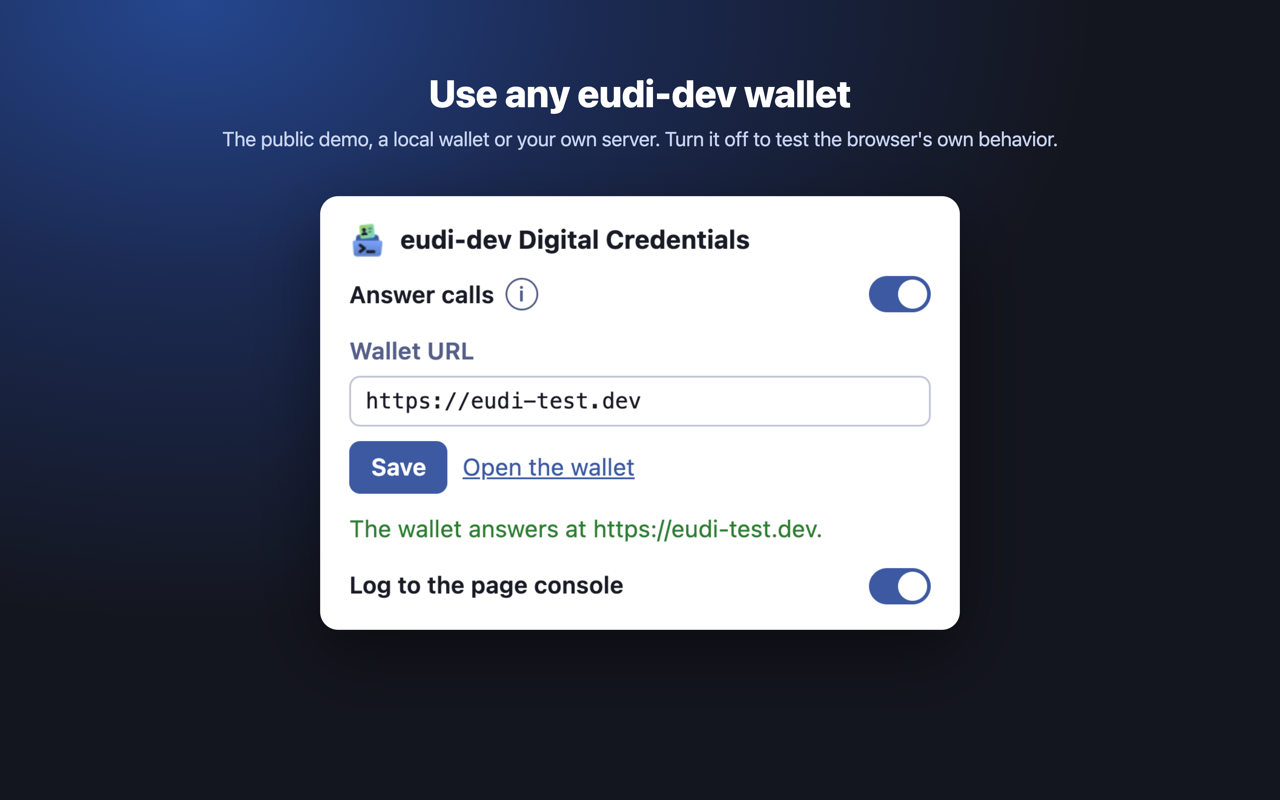
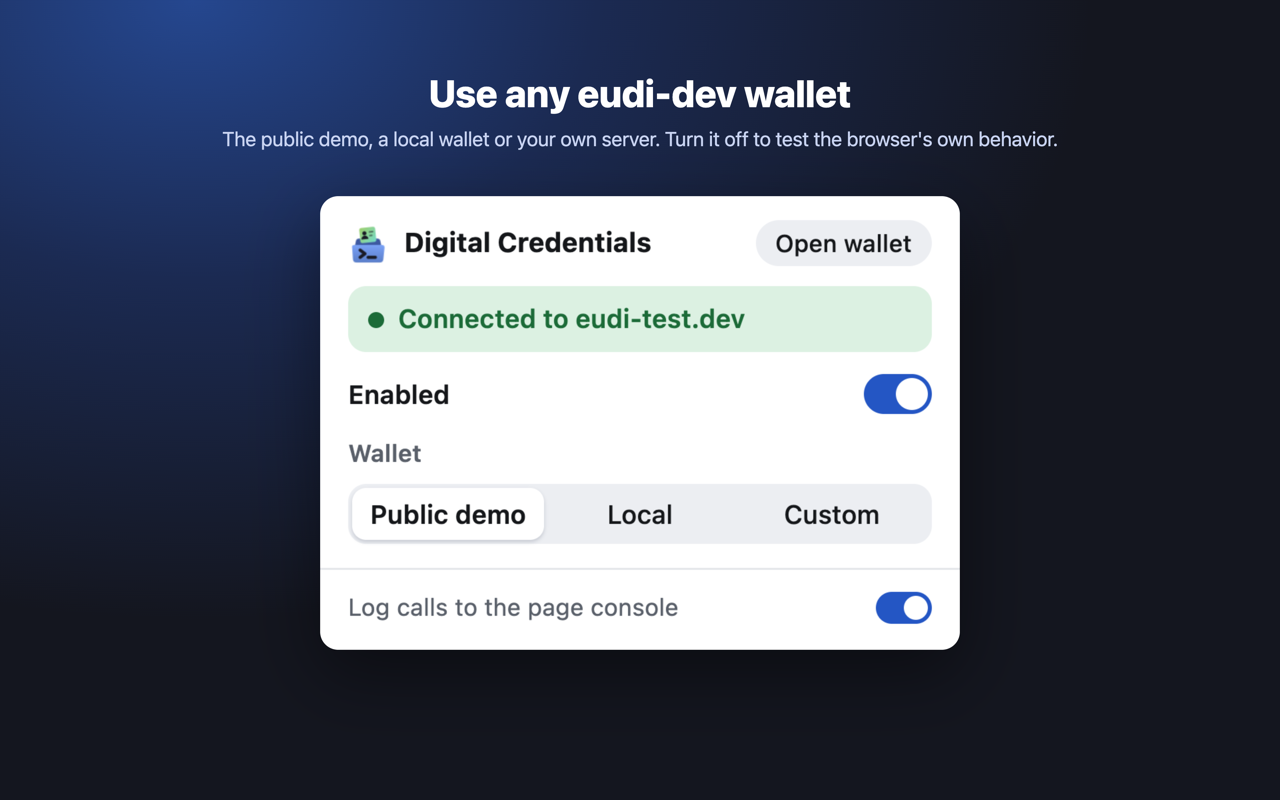
feat: redesign the browser extension popup

Changed region(s): [[0.25, 0.2812, 0.75, 0.6875], [0.25, 0.6875, 0.75, 0.8125]]

diff --git a/internal/dcextension/extension/popup.html b/internal/dcextension/extension/popup.html
@@ -4,52 +4,73 @@
   <meta charset="utf-8">
   <title>eudi-dev Digital Credentials</title>
   <style>
-    :root { color-scheme: light dark; --bg: #ffffff; --text: #1a1b26; --dim: #565f89; --border: #c0c4d6; --accent: #3d59a1; --ok: #2e7d32; --bad: #c62828; }
-    @media (prefers-color-scheme: dark) { :root { --bg: #1a1b26; --text: #c0caf5; --dim: #9aa5ce; --border: #414868; --accent: #7aa2f7; --ok: #9ece6a; --bad: #f7768e; } }
-    body { margin: 0; padding: 14px 16px; width: 320px; font: 13px/1.45 system-ui, sans-serif; background: var(--bg); color: var(--text); }
-    h1 { font-size: 14px; margin: 0 0 10px; display: flex; gap: 8px; align-items: center; }
-    h1 img { width: 20px; height: 20px; }
-    label { display: block; font-weight: 600; color: var(--dim); margin-bottom: 4px; }
-    input { box-sizing: border-box; width: 100%; padding: 6px 8px; font: 12px ui-monospace, monospace; color: var(--text); background: transparent; border: 1px solid var(--border); border-radius: 6px; }
-    .row { display: flex; gap: 8px; margin-top: 8px; align-items: center; }
-    button { font: inherit; font-weight: 600; padding: 5px 12px; border: 0; border-radius: 6px; background: var(--accent); color: #fff; cursor: pointer; }
-    a { color: var(--accent); }
-    #status { margin-top: 10px; color: var(--dim); }
-    #status.ok { color: var(--ok); }
-    #status.bad { color: var(--bad); }
-    p { margin: 10px 0 0; color: var(--dim); }
-    .switch-row { display: flex; align-items: center; gap: 6px; margin: 0 0 12px; }
-    .switch-row + label { margin-top: 0; }
-    #status + .switch-row { margin: 12px 0 0; }
-    .switch-row label { margin: 0; font-weight: 600; color: var(--text); }
-    .switch { appearance: none; position: relative; flex: none; width: 34px; height: 20px; margin: 0 0 0 auto; padding: 0; border: 0; border-radius: 10px; background: var(--border); cursor: pointer; transition: background .15s; }
+    :root { color-scheme: light dark; --bg: #ffffff; --btn: #eceef2; --text: #15171a; --dim: #5a606a; --border: #d5d8de; --subtle: #e4e6ea; --accent: #2456c4; --on-accent: #ffffff; --ok: #1c6b38; --ok-bg: #dcf1e2; --bad: #b3261e; --bad-bg: #fbe3e0; }
+    @media (prefers-color-scheme: dark) { :root { --bg: #21242a; --btn: #2c3038; --text: #eceef1; --dim: #a9afb9; --border: #383d45; --subtle: #2a2e35; --accent: #9dbcff; --on-accent: #15171a; --ok: #9fdcae; --ok-bg: #1d3a27; --bad: #ff9b8f; --bad-bg: #472320; } }
+    * { box-sizing: border-box; }
+    body { margin: 0; width: 320px; font: 13px/1.45 system-ui, sans-serif; background: var(--bg); color: var(--text); }
+    button, a.button { font: inherit; border: 0; cursor: pointer; }
+    :focus-visible { outline: 2px solid var(--accent); outline-offset: 2px; }
+    header { display: flex; align-items: center; gap: 8px; padding: 12px 14px 10px; }
+    header img { width: 20px; height: 20px; }
+    h1 { flex: 1; min-width: 0; margin: 0; font-size: 13.5px; }
+    #open { flex: none; padding: 3px 10px; border-radius: 999px; background: var(--btn); color: var(--text); font-size: 12px; font-weight: 500; text-decoration: none; }
+    #status { display: flex; align-items: center; gap: 7px; margin: 0 14px; padding: 7px 10px; border-radius: 9px; background: var(--btn); color: var(--dim); font-weight: 600; overflow-wrap: anywhere; }
+    #status::before { content: ""; flex: none; width: 8px; height: 8px; border-radius: 50%; background: currentColor; }
+    #status.ok { background: var(--ok-bg); color: var(--ok); }
+    #status.bad { background: var(--bad-bg); color: var(--bad); }
+    .switch-row { display: flex; align-items: center; justify-content: space-between; gap: 10px; padding: 11px 14px 0; font-weight: 600; }
+    .switch { appearance: none; position: relative; flex: none; width: 34px; height: 20px; margin: 0; border-radius: 10px; background: var(--border); cursor: pointer; transition: background .15s; }
     .switch::after { content: ""; position: absolute; top: 2px; left: 2px; width: 16px; height: 16px; border-radius: 50%; background: #fff; transition: transform .15s; }
     .switch:checked { background: var(--accent); }
     .switch:checked::after { transform: translateX(14px); }
-    .switch:focus-visible, .info:focus-visible { outline: 2px solid var(--accent); outline-offset: 2px; }
-    .info { position: relative; flex: none; width: 16px; height: 16px; border: 1px solid var(--dim); border-radius: 50%; color: var(--dim); font: 600 11px/16px system-ui, sans-serif; text-align: center; cursor: help; }
-    .info:hover, .info:focus { border-color: var(--accent); color: var(--accent); }
-    .info:hover::after, .info:focus::after { content: attr(data-tip); position: absolute; z-index: 1; top: 22px; left: -80px; width: 210px; padding: 6px 8px; border-radius: 6px; background: var(--text); color: var(--bg); font-weight: 400; font-size: 12px; line-height: 1.35; text-align: left; }
+    #reload-notice { display: flex; align-items: center; justify-content: space-between; gap: 8px; margin: 11px 14px 0; padding: 7px 10px; border: 1px solid var(--border); border-radius: 9px; }
+    #reload { flex: none; padding: 3px 10px; border-radius: 999px; background: var(--accent); color: var(--on-accent); font-size: 12px; font-weight: 600; }
+    [hidden] { display: none !important; }
+    #wallet { display: grid; gap: 6px; padding: 11px 14px 0; }
+    .label { color: var(--dim); font-size: 12px; font-weight: 600; }
+    .choice { display: grid; grid-template-columns: repeat(3, 1fr); padding: 2px; border-radius: 9px; background: var(--btn); }
+    .choice button { padding: 4px 0; border-radius: 7px; background: none; color: var(--text); font-weight: 500; }
+    .choice button[aria-pressed="true"] { background: var(--bg); font-weight: 600; box-shadow: 0 1px 2px rgba(20, 30, 60, .18); }
+    #wallet-url { width: 100%; padding: 6px 8px; font: 12px ui-monospace, monospace; color: var(--text); background: transparent; border: 1px solid var(--border); border-radius: 7px; }
+    #wallet-url.bad { border-color: var(--bad); }
+    #hint { color: var(--dim); font-size: 12px; overflow-wrap: anywhere; }
+    #hint.bad { color: var(--bad); }
+    #hint:empty { display: none; }
+    footer { display: flex; align-items: center; justify-content: space-between; gap: 10px; margin-top: 12px; padding: 10px 14px 12px; border-top: 1px solid var(--subtle); color: var(--dim); font-size: 12px; }
+    footer .switch { width: 28px; height: 16px; }
+    footer .switch::after { width: 12px; height: 12px; }
+    footer .switch:checked::after { transform: translateX(12px); }
   </style>
 </head>
 <body>
-  <h1><img src="icons/32.png" alt="">eudi-dev Digital Credentials</h1>
+  <header>
+    <img src="icons/48.png" alt="">
+    <h1>Digital Credentials</h1>
+    <a id="open" class="button" href="#" target="_blank" rel="noopener">Open wallet</a>
+  </header>
+  <div id="status" role="status"></div>
   <div class="switch-row">
-    <label for="enabled">Answer calls</label>
-    <span class="info" tabindex="0" role="img" aria-label="Off: pages get the browser's own API. Reload open pages after a change." data-tip="Off: pages get the browser's own API. Reload open pages after a change.">i</span>
+    <label for="enabled">Enabled</label>
     <input id="enabled" class="switch" type="checkbox" role="switch">
   </div>
-  <label for="wallet-url">Wallet URL</label>
-  <input id="wallet-url" type="url" spellcheck="false">
-  <div class="row">
-    <button id="save" type="button">Save</button>
-    <a id="open" href="#" target="_blank" rel="noopener">Open the wallet</a>
+  <div id="reload-notice" hidden>
+    <span>Reload open pages to apply</span>
+    <button id="reload" type="button">Reload tab</button>
   </div>
-  <div id="status"></div>
-  <div class="switch-row">
-    <label for="console-log">Log to the page console</label>
+  <div id="wallet">
+    <span class="label">Wallet</span>
+    <div class="choice" role="group" aria-label="Wallet">
+      <button id="wallet-demo" type="button" data-mode="demo">Public demo</button>
+      <button id="wallet-local" type="button" data-mode="local">Local</button>
+      <button id="wallet-custom" type="button" data-mode="custom">Custom</button>
+    </div>
+    <input id="wallet-url" type="url" spellcheck="false" aria-label="Wallet URL" aria-describedby="hint">
+    <div id="hint" aria-live="polite"></div>
+  </div>
+  <footer>
+    <label for="console-log">Log calls to the page console</label>
     <input id="console-log" class="switch" type="checkbox" role="switch">
-  </div>
+  </footer>
   <script src="popup.js"></script>
 </body>
 </html>

diff --git a/internal/dcextension/extension/popup.js b/internal/dcextension/extension/popup.js
@@ -1,55 +1,166 @@
+const DEMO_URL = 'https://eudi-test.dev';
+const LOCAL_URL = 'http://localhost:8085';
+const CHECK_TIMEOUT_MS = 5000;
+
 const input = document.getElementById('wallet-url');
 const status = document.getElementById('status');
+const hint = document.getElementById('hint');
 const open = document.getElementById('open');
+const enabled = document.getElementById('enabled');
+const wallet = document.getElementById('wallet');
+const modeButtons = document.querySelectorAll('[data-mode]');
 
-function show(text, kind) {
+let configured = '';
+let walletURL = '';
+let lastCheck = 0;
+
+function showStatus(text, kind) {
   status.textContent = text;
   status.className = kind || '';
 }
 
-async function check(walletURL) {
-  open.href = walletURL + '/';
-  show('Checking the wallet…');
+function showHint(text, bad) {
+  hint.textContent = text;
+  hint.className = bad ? 'bad' : '';
+  input.classList.toggle('bad', !!bad);
+}
+
+function isLocal(url) {
   try {
-    const resp = await fetch(walletURL + '/', { credentials: 'omit' });
-    if (!resp.ok) throw new Error('HTTP ' + resp.status);
-    show(`The wallet answers at ${walletURL}.`, 'ok');
+    const { hostname } = new URL(url);
+    return hostname === 'localhost' || hostname === '127.0.0.1';
   } catch (e) {
-    show(`No wallet answers at ${walletURL}.`, 'bad');
+    return false;
   }
 }
 
-let configured = '';
-
-async function load() {
-  const { walletURL, savedFor } = await chrome.storage.local.get(['walletURL', 'savedFor']);
-  configured = (await (await fetch(chrome.runtime.getURL('config.json'))).json()).wallet_url;
-  input.value = walletURL && savedFor === configured ? walletURL : configured;
-  check(input.value.replace(/\/+$/, ''));
+function modeOf(url) {
+  if (url === DEMO_URL) return 'demo';
+  return isLocal(url) ? 'local' : 'custom';
 }
 
-document.getElementById('save').addEventListener('click', async () => {
+function showMode(mode) {
+  modeButtons.forEach(button => button.setAttribute('aria-pressed', String(button.dataset.mode === mode)));
+  input.hidden = mode === 'demo';
+}
+
+function localStartHint(url) {
+  const { port, protocol } = new URL(url);
+  return 'Start it with eudi wallet serve --port ' + (port || (protocol === 'https:' ? '443' : '80'));
+}
+
+// A site that answers is not yet a wallet, so the check reads the wallet's own
+// version endpoint. Development builds report only a build_id.
+async function readWallet(url) {
+  let resp;
+  try {
+    resp = await fetch(url + '/api/version', { credentials: 'omit', signal: AbortSignal.timeout(CHECK_TIMEOUT_MS) });
+  } catch (e) {
+    return 'unreachable';
+  }
+  try {
+    if (!resp.ok) return 'other';
+    const { version, build_id: buildID } = await resp.json();
+    return version || buildID ? 'wallet' : 'other';
+  } catch (e) {
+    return 'other';
+  }
+}
+
+async function check() {
+  open.href = walletURL + '/';
+  showHint('');
+  const current = ++lastCheck;
+  if (!enabled.checked) {
+    showStatus("Off. Pages use the browser's Digital Credentials API");
+    return;
+  }
+  const url = walletURL;
+  showStatus('Checking the wallet…');
+  const found = await readWallet(url);
+  if (current !== lastCheck) return;
+  if (found === 'wallet') {
+    showStatus('Connected to ' + new URL(url).host, 'ok');
+  } else if (found === 'other') {
+    showStatus("This isn't an eudi-dev wallet", 'bad');
+    showHint('The site answers, but no wallet runs there.', true);
+  } else {
+    showStatus("Can't reach this wallet", 'bad');
+    if (modeOf(url) === 'local') showHint(localStartHint(url));
+  }
+}
+
+async function useWallet(url) {
+  walletURL = url;
+  input.value = url;
+  const stored = { walletURL: url, savedFor: configured };
+  if (modeOf(url) === 'local') stored.localURL = url;
+  if (modeOf(url) === 'custom') stored.customURL = url;
+  await chrome.storage.local.set(stored);
+  showMode(modeOf(url));
+  await check();
+}
+
+modeButtons.forEach(button => button.addEventListener('click', async () => {
+  const { mode } = button.dataset;
+  if (mode === 'demo') {
+    await useWallet(DEMO_URL);
+  } else if (mode === 'local') {
+    const { localURL } = await chrome.storage.local.get('localURL');
+    await useWallet(localURL || (isLocal(configured) ? configured : LOCAL_URL));
+  } else {
+    const { customURL } = await chrome.storage.local.get('customURL');
+    if (customURL) {
+      await useWallet(customURL);
+    } else {
+      showMode('custom');
+      input.value = '';
+    }
+    input.focus();
+  }
+}));
+
+input.addEventListener('change', () => {
   let url;
   try {
     url = new URL(input.value.trim());
   } catch (e) {
-    show('Enter a URL such as http://localhost:8085.', 'bad');
+    url = null;
+  }
+  if (!url || !['http:', 'https:'].includes(url.protocol)) {
+    showHint('Enter a URL such as ' + LOCAL_URL + '.', true);
     return;
   }
-  const walletURL = (url.origin + url.pathname).replace(/\/+$/, '');
-  input.value = walletURL;
-  await chrome.storage.local.set({ walletURL, savedFor: configured });
-  check(walletURL);
+  useWallet((url.origin + url.pathname).replace(/\/+$/, ''));
 });
 
-// Turns the page console logging of calls on or off.
+// With the extension off, background.js removes the page scripts. Open pages
+// keep what they loaded until they reload.
+const reloadNotice = document.getElementById('reload-notice');
+enabled.addEventListener('change', async () => {
+  await chrome.storage.local.set({ enabled: enabled.checked });
+  wallet.hidden = !enabled.checked;
+  reloadNotice.hidden = false;
+  check();
+});
+document.getElementById('reload').addEventListener('click', () => {
+  chrome.tabs.reload();
+  reloadNotice.hidden = true;
+});
+
 const consoleLog = document.getElementById('console-log');
-chrome.storage.local.get('consoleLog').then(({ consoleLog: on }) => { consoleLog.checked = on !== false; });
 consoleLog.addEventListener('change', () => chrome.storage.local.set({ consoleLog: consoleLog.checked }));
 
-// With the extension off, background.js removes the page scripts.
-const enabled = document.getElementById('enabled');
-chrome.storage.local.get('enabled').then(({ enabled: on }) => { enabled.checked = on !== false; });
-enabled.addEventListener('change', () => chrome.storage.local.set({ enabled: enabled.checked }));
+async function load() {
+  const stored = await chrome.storage.local.get(['walletURL', 'savedFor', 'enabled', 'consoleLog']);
+  configured = (await (await fetch(chrome.runtime.getURL('config.json'))).json()).wallet_url;
+  walletURL = (stored.walletURL && stored.savedFor === configured ? stored.walletURL : configured).replace(/\/+$/, '');
+  input.value = walletURL;
+  enabled.checked = stored.enabled !== false;
+  consoleLog.checked = stored.consoleLog !== false;
+  wallet.hidden = !enabled.checked;
+  showMode(modeOf(walletURL));
+  check();
+}
 
 load();

diff --git a/e2e/dc-api.spec.js b/e2e/dc-api.spec.js
@@ -159,6 +159,67 @@ test("the popup turns the extension off, and pages get the browser's own API", a
   });
 });
 
+test("the popup checks the wallet and offers a local wallet on any port", async () => {
+  await withExtension(async (context) => {
+    const worker = await extensionWorker(context);
+    const popup = await context.newPage();
+    await popup.goto(worker.url().replace("background.js", "popup.html"));
+    const status = popup.locator("#status");
+    const url = popup.locator("#wallet-url");
+
+    await expect(status).toHaveText(`Connected to ${new URL(BASE).host}`);
+    await expect(popup.locator("#wallet-local")).toHaveAttribute("aria-pressed", "true");
+
+    await url.fill("http://localhost:1");
+    await url.press("Enter");
+    await expect(status).toHaveText("Can't reach this wallet");
+    await expect(popup.locator("#hint")).toHaveText("Start it with eudi wallet serve --port 1");
+
+    await url.fill("localhost:8085");
+    await url.press("Enter");
+    await expect(popup.locator("#hint")).toHaveText("Enter a URL such as http://localhost:8085.");
+
+    await url.fill(`${BASE}/verifier`);
+    await url.press("Enter");
+    await expect(status).toHaveText("This isn't an eudi-dev wallet");
+
+    await popup.locator("#wallet-demo").click();
+    await expect(url).toBeHidden();
+    await popup.locator("#wallet-local").click();
+    await expect(url).toHaveValue(`${BASE}/verifier`);
+
+    await popup.locator("#enabled").uncheck();
+    await expect(status).toHaveText("Off. Pages use the browser's Digital Credentials API");
+    await expect(popup.locator("#wallet")).toBeHidden();
+    await expect(popup.locator("#reload-notice")).toBeVisible();
+  });
+});
+
+test("after a change of Enabled in either direction the popup reloads the tab", async () => {
+  await withExtension(async (context) => {
+    const worker = await extensionWorker(context);
+    const popup = await context.newPage();
+    await popup.goto(worker.url().replace("background.js", "popup.html"));
+    const notice = popup.locator("#reload-notice");
+    await expect(notice).toBeHidden();
+
+    for (const change of ["uncheck", "check"]) {
+      const page = await context.newPage();
+      await page.goto(`${BASE}/verifier/`);
+      await page.evaluate(() => { window.notReloaded = true; });
+      await popup.locator("#enabled")[change]();
+      await expect(notice).toBeVisible();
+      await page.bringToFront();
+      const reloaded = page.waitForEvent("load");
+      await popup.locator("#reload").evaluate((button) => button.click());
+      await reloaded;
+      await expect(notice).toBeHidden();
+      expect(await page.evaluate(() => window.notReloaded)).toBeUndefined();
+      await page.close();
+    }
+  });
+});
+
 test("the wallet window offers no issuance", async () => {
   await withExtension(async (context) => {
     await fetch(`${BASE}/api/credentials`, { method: "DELETE" });

diff --git a/docs/wallet/browser-extension.md b/docs/wallet/browser-extension.md
@@ -28,9 +28,9 @@ eudi wallet extension ~/eudi-dev-extension --wallet-url http://localhost:8085
 
 Every wallet server also offers the extension as a zip file at `/eudi-dev-dc-api-extension.zip`, set to that wallet, and the demo verifier links it. Unzip the file, open `chrome://extensions`, turn on Developer mode, choose Load unpacked and select the folder. Outside the Chrome Web Store, Chrome installs extensions only this way.
 
-The extension's popup shows the wallet it uses and lets you set another one.
+The extension's popup shows whether it reaches the wallet. Choose **Public demo**, **Local** or **Custom**. **Local** starts with `http://localhost:8085`. Change the URL when your wallet runs on another port. A URL saves when you press Enter or leave the field.
 
-To test how a page behaves without the extension, turn off **Answer calls** in the popup and reload the page. The extension then adds nothing to pages, so they get the browser's own API. The icon shows **OFF**.
+To test how a page behaves without the extension, turn off **Enabled** in the popup and reload the page. The extension then adds nothing to pages, so they get the browser's own API. The icon shows **OFF**.
 
 ## Use
 
@@ -54,7 +54,7 @@ The demo verifier always asks for an encrypted response (`dc_api.jwt`).
 
 The page console and the wallet's activity log show what happened in a call.
 
-- **Page console.** The extension logs each call to the page console: the request, then the result or the error. To stop this, turn off **Log to the page console** in the popup.
+- **Page console.** The extension logs each call to the page console: the request, then the result or the error. To stop this, turn off **Log calls to the page console** in the popup.
 - **All requests in the activity log.** The wallet logs each call with all its requests. It answers only the first request with a supported protocol. For each other request, the log gives the reason. A common mistake is the protocol `openid4vp` instead of `openid4vp-v1-signed` (OpenID4VP 1.0 Appendix A.1).
 - **Refused calls.** Calls refused by the extension also appear in the activity log, for example a call without a user action. The same page and reason appear at most once a minute.
 - **Unused parameters.** Parameters outside the list in OpenID4VP 1.0 Appendix A.2, such as `state` or `response_uri`, get a warning.
